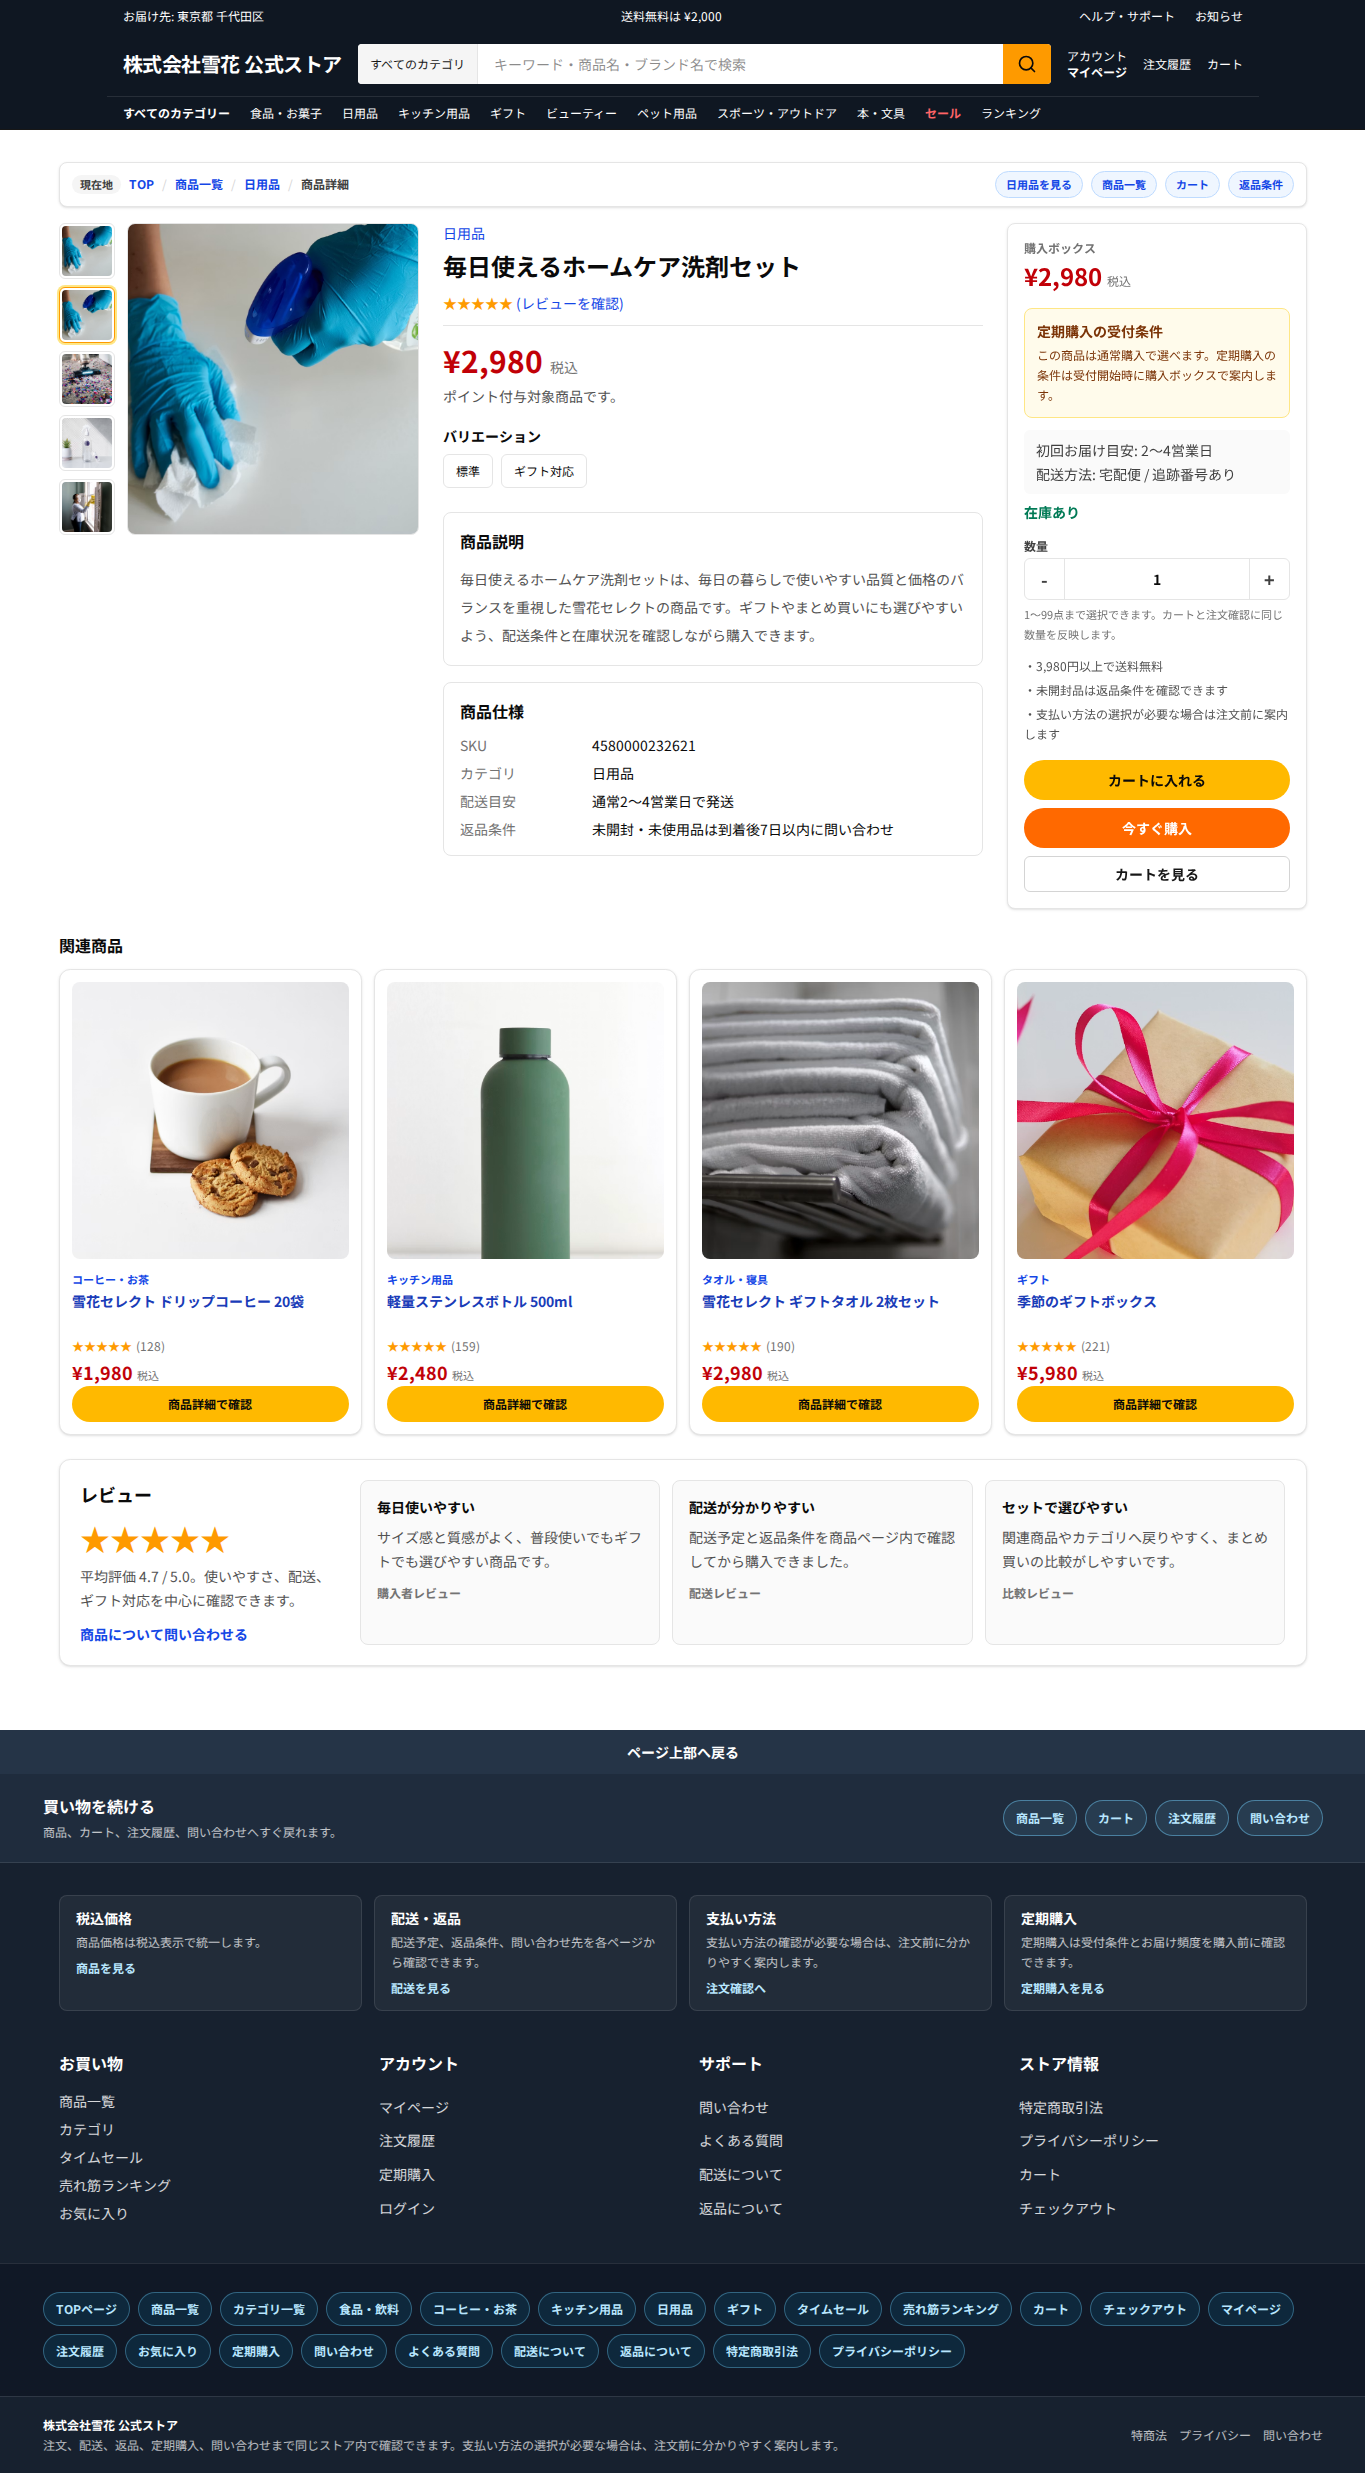
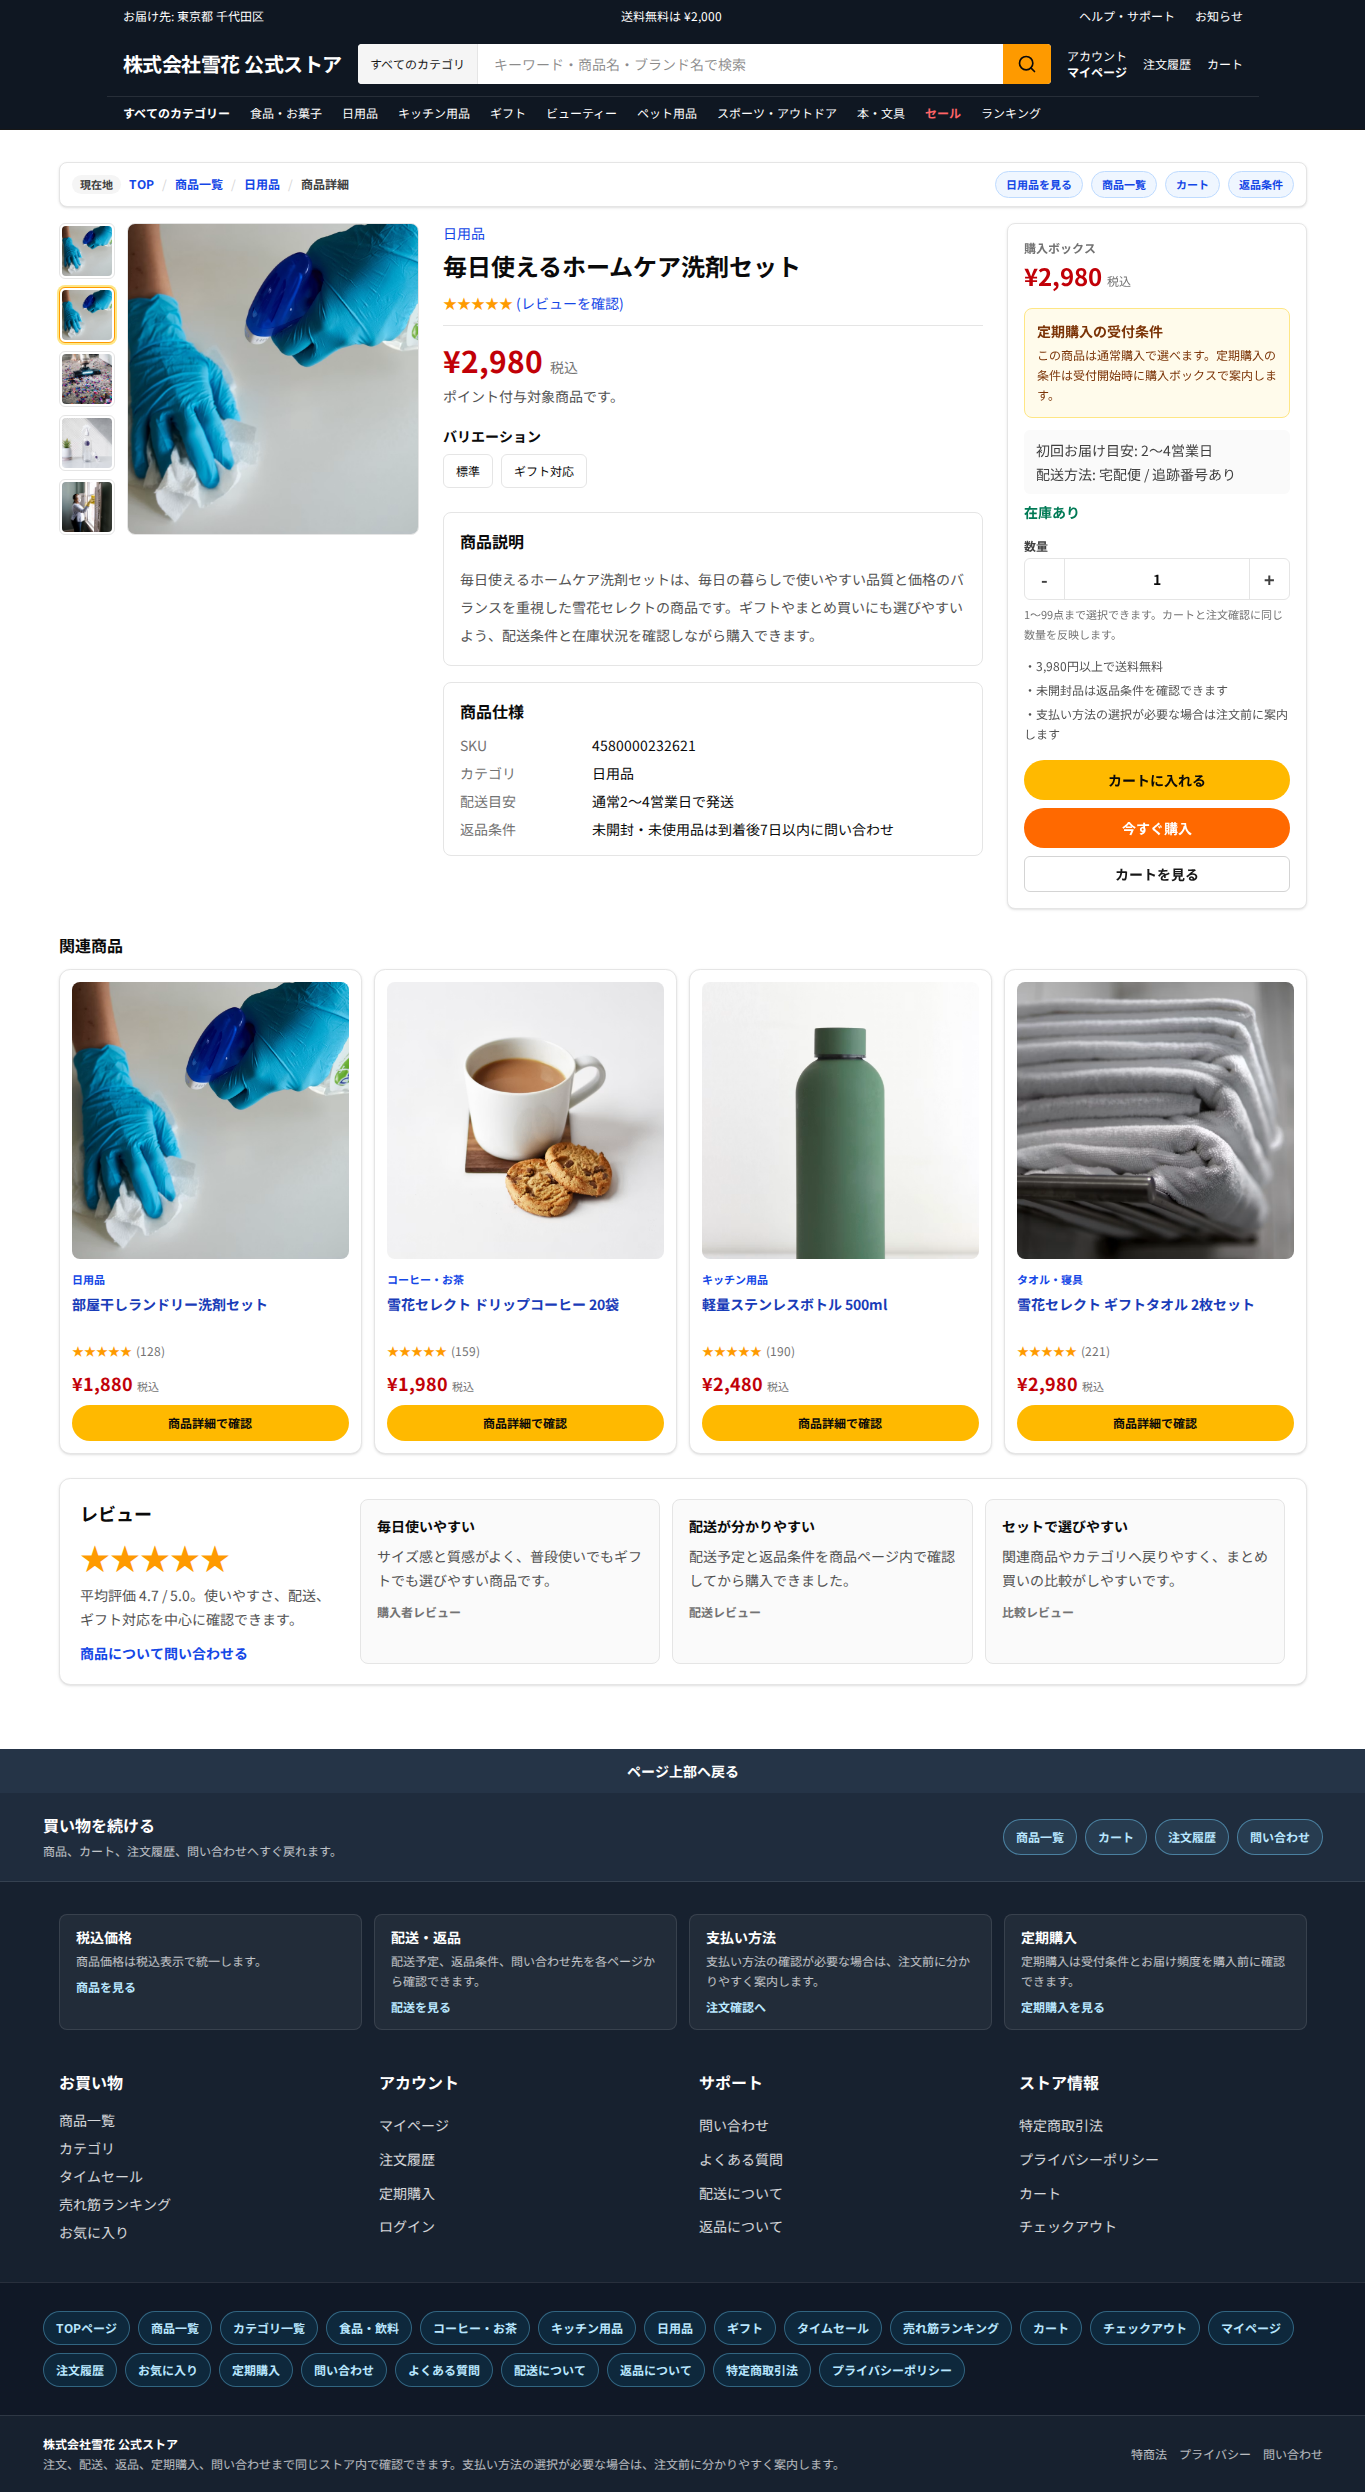
WIP publish product detail relevance evidence

diff --git a/public/g/d68.md b/public/g/d68.md
@@ -8,46 +8,42 @@ This is not `FINAL_ACCEPTED`.
 
 ## Current Visual Focus
 
-`CART_RELATED_PRODUCT_CARD_ALIGNMENT_WIP`
+`PRODUCT_DETAIL_RELATED_PRODUCT_RELEVANCE_WIP`
 
 ## Latest Public Screenshots
 
+- Product detail 1365px: `/g/screens/shop-product-detail-1365.png`
+- Product detail 1980px: `/g/screens/shop-product-detail-1980.png`
+- Product detail mobile: `/g/screens/shop-product-detail-mobile.png`
+- TOP 1365px: `/g/screens/shop-top-1365.png`
+- TOP 1980px: `/g/screens/shop-top-1980.png`
+- TOP mobile: `/g/screens/shop-top-mobile.png`
 - Cart page: `/g/screens/shop-cart-page.png`
 - Checkout page: `/g/screens/shop-checkout-page.png`
-- Checkout empty guide: `/g/screens/shop-checkout-empty-guide.png`
-- Checkout buy-now result: `/g/screens/shop-checkout-buy-now-result.png`
 - Contact page: `/g/screens/shop-contact-page.png`
 - Legal page: `/g/screens/shop-legal-page.png`
 - Privacy page: `/g/screens/shop-privacy-page.png`
 - Shipping page: `/g/screens/shop-shipping-page.png`
 - Returns page: `/g/screens/shop-returns-page.png`
-- FAQ page: `/g/screens/shop-faq-page.png`
-- TOP 1365px: `/g/screens/shop-top-1365.png`
-- TOP 1980px: `/g/screens/shop-top-1980.png`
-- TOP mobile: `/g/screens/shop-top-mobile.png`
-- Product detail 1365px: `/g/screens/shop-product-detail-1365.png`
-- Product detail 1980px: `/g/screens/shop-product-detail-1980.png`
-- Product detail mobile: `/g/screens/shop-product-detail-mobile.png`
 
 ## Visual Verdict
 
 `WIP_PASS_NOT_FINAL`
 
-- Cart related-product cards now use stable compact height and bottom-aligned price / CTA blocks.
-- Shared product cards keep image ratio, title height, review row, price row, and action button placement consistent.
-- TOP product cards use the same bottom-alignment pattern for price and cart CTA.
-- Cart quantity change, remove, checkout blocker, and buy-now-to-checkout flow remain working on the public URL.
-- Public cart screenshot was refreshed after the WIP deploy.
+- Product-detail related products now prefer the active product category before broader fallback categories.
+- The current product is excluded from related cards by id and display name, so the primary product title is not duplicated elsewhere on the page.
+- Public product-detail screenshots were refreshed at 1365px, 1980px, and mobile after WIP deployment.
 - No new visible SEO explanation, implementation checklist, trust matrix, support rail, action map, or sitemap panel was added.
 
 ## Public Verification
 
-- Cart: `https://shop.aiboux.com/s/aiboux/cart`
-- Checkout: `https://shop.aiboux.com/s/aiboux/checkout`
-- Code deploy Worker Version ID: `b37814b3-906b-45f0-ac5f-19b654bd54c8`
-- WIP commit: `a3a7811` `WIP align shop product card actions`
-- Gate: `PLAYWRIGHT_BASE_URL=https://shop.aiboux.com npm run gate:shop-cart-checkout`
-- Gate result: PASS, 3 tests.
+- Product detail: `https://shop.aiboux.com/s/aiboux/product/setsuka-coffee`
+- Code deploy Worker Version ID: `1662795c-166a-4f3b-9c91-71999dcef784`
+- WIP commits:
+  - `a7423fd` `WIP prioritize related products by category`
+  - `4ce0dca` `WIP remove duplicate current product from related cards`
+- Gate: `PLAYWRIGHT_BASE_URL=https://shop.aiboux.com npm run gate:shop-product-detail`
+- Gate result: PASS, 4 tests.
 
 ## Blocked
 
@@ -56,6 +52,6 @@ This is not `FINAL_ACCEPTED`.
 
 ## Next Visual Work
 
-1. Product detail purchase box and gallery visual alignment.
+1. Product detail purchase box and gallery polish.
 2. Contact and policy page density review.
 3. Admin product save runtime verification strategy without extra persisted product/feed records.

diff --git a/public/g/l68.md b/public/g/l68.md
@@ -8,9 +8,9 @@ This is not `FINAL_ACCEPTED`.
 
 ## Current Cycle
 
-`Cycle 2: Cart / Checkout Retail Quality`
+`Cycle 1/2 Focus: Product Detail Retail Quality`
 
-Visible SEO explanation panels, trust matrix, support rail, action map, SEO checklist, sitemap panels, gate-only work, Bark-only work, and `/g`-only churn remain stopped. This cycle records direct buyer-facing sales UI improvement only.
+Visible SEO explanation panels, trust matrix, support rail, action map, SEO checklist, sitemap panels, gate-only work, Bark-only work, and `/g`-only churn remain stopped. This entry records direct buyer-facing product-detail improvement only.
 
 ## Public URLs
 
@@ -24,22 +24,23 @@ Visible SEO explanation panels, trust matrix, support rail, action map, SEO chec
 
 ## Changed
 
-- Shared storefront product cards now keep image, category, title, rating, price, and CTA positions stable across different product-name lengths.
-- Cart related-product cards use taller compact cards and bottom-aligned price / CTA blocks, reducing uneven rows in `一緒に見られている商品`.
-- TOP storefront product cards use the same bottom-aligned price / CTA structure.
+- Product-detail related products now prioritize the current product category and related sibling categories.
+- The current product is removed from related-product cards by both product id and display name, preventing duplicate H1/title text on the page.
+- The curated coffee product test now confirms related products stay in the coffee/tea category first.
 - No visible SEO explanation components, checklist panels, sitemap panels, support rails, trust matrices, or action maps were added.
 
 ## Verified
 
-- Checked at: `2026-06-05T08:04:00Z`.
+- Checked at: `2026-06-05T08:16:00Z`.
 - `npm run check:control-chars`: PASS.
 - `npm run check:mojibake`: PASS.
-- `npm run astro -- check`: PASS with 0 errors and existing hints.
 - `ESBUILD_WORKER_THREADS=0 npm run build`: PASS.
-- `PLAYWRIGHT_BASE_URL=https://shop.aiboux.com npm run gate:shop-cart-checkout`: PASS, 3 tests after WIP deploy.
-- Public cart curl: HTTP 200, `content-type: text/html`, `cache-control: no-store, no-cache, must-revalidate, proxy-revalidate, max-age=0, s-maxage=0`.
-- WIP code deploy Worker Version ID: `b37814b3-906b-45f0-ac5f-19b654bd54c8`.
-- WIP commit: `a3a7811` `WIP align shop product card actions`.
+- `PLAYWRIGHT_BASE_URL=https://shop.aiboux.com npm run gate:shop-product-detail`: PASS, 4 tests.
+- Public product detail screenshots refreshed for 1365px, 1980px, and mobile.
+- WIP code deploy Worker Version ID: `1662795c-166a-4f3b-9c91-71999dcef784`.
+- WIP commits:
+  - `a7423fd` `WIP prioritize related products by category`
+  - `4ce0dca` `WIP remove duplicate current product from related cards`
 
 ## Blocked
 
@@ -48,6 +49,6 @@ Visible SEO explanation panels, trust matrix, support rail, action map, SEO chec
 
 ## Next
 
-1. Product detail purchase box and gallery visual alignment.
-2. Contact / legal / privacy / shipping / returns page density review.
-3. Admin product runtime save verification without leaving unnecessary product/feed records.
+1. Continue product detail purchase-box and gallery polish only where it directly improves buyer experience.
+2. Review contact / legal / privacy / shipping / returns density without adding SEO explanation panels.
+3. Verify admin product save flow without leaving unnecessary product/feed records.